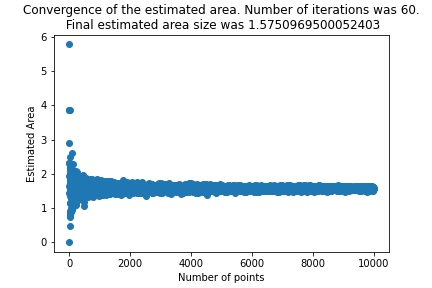
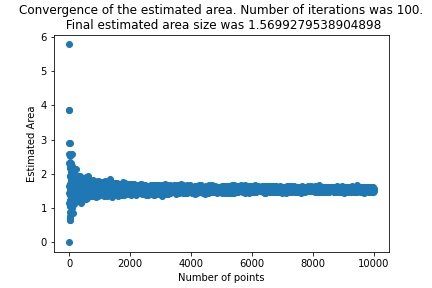
orthogonal sampling is now included

Changed region(s): [[0.0301, 0.0, 0.9931, 0.125], [0.1505, 0.5, 0.8727, 0.7188], [0.1505, 0.6875, 0.3009, 0.8125]]

diff --git a/helpers.py b/helpers.py
@@ -5,6 +5,8 @@ import numpy as np
 import matplotlib.pyplot as plt
 from joblib import Parallel, delayed
 from tqdm import notebook
+import random
+
 
 class mendelSim():
     def __init__(self, width = 1000, x =-0.65, y = 0, xRange = 3.4, aspectRatio = 4/3, 
@@ -44,7 +46,7 @@ class mendelSim():
         elif self.simStrat == "latin":
             coordinates = self.getLatinCube()
         elif self.simStrat == "orthogonal":
-            #TODO
+            coordinates = self.getOrthogonal()
             pass
         else:
             raise ValueError
@@ -117,7 +119,7 @@ class mendelSim():
     def getLatinCube(self):
         # returns a cube with one coordinate in every row and column
         # check if the input is a cube
-        assert self.height == self.width
+        assert self.height == self.width, "the aspect ratio should be 1"
         x = []
         y = []
         possibilities = np.arange(self.width)
@@ -128,7 +130,36 @@ class mendelSim():
 
         return (x, y)
     
-    
+
+    #https://codereview.stackexchange.com/questions/207610/orthogonal-sampling
+    def getOrthogonal(self):
+        assert self.height == self.width, "Make sure that aspect ratio is 1"
+        assert np.sqrt(self.width) % 1 == 0,"Please insert a width of which the square root is an integer"
+        n = int(np.sqrt(self.width))
+        # Making a datastructure of a dict with coordinate tuples of a bigger grid with subcoordinate of sub-grid points
+        blocks = {(i,j):[(a,b) for a in range(n) for b in range(n)] for i in range(n) for j in range(n)}
+        x = []
+        y = []
+        appendx = x.append
+        appendy = y.append
+        for block in blocks:
+            # select a random minor cell from every major cell
+            point = random.choice(blocks[block])
+            lst_row = [(k1, b) for (k1, b), v in blocks.items() if k1 == block[0]]
+            lst_col = [(a, k1) for (a, k1), v in blocks.items() if k1 == block[1]]
+
+            for col in lst_col:
+                blocks[col] = [a for a in blocks[col] if a[1] != point[1]]
+
+            for row in lst_row:
+                blocks[row] = [a for a in blocks[row] if a[0] != point[0]]
+           #Adjust the points to fit the grid they fall in  
+            appendx(point[0] + n * block[0])
+            appendy(point[1] + n * block[1])
+
+        return (x, y)
+
+
     def powerColor(self, distance, exp, const, scale):
         # color a pixel dependent on how long the belonging values took to diverge
         color = distance**exp
